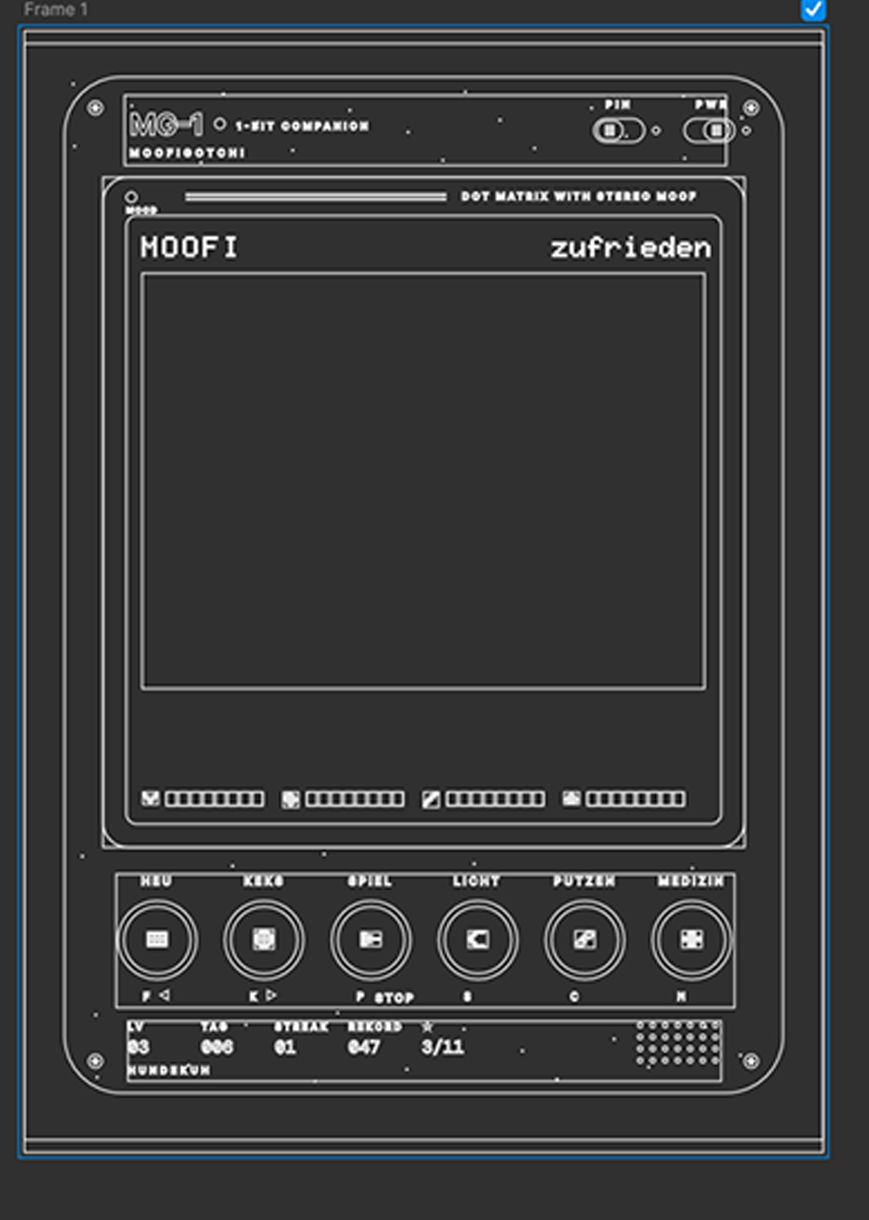
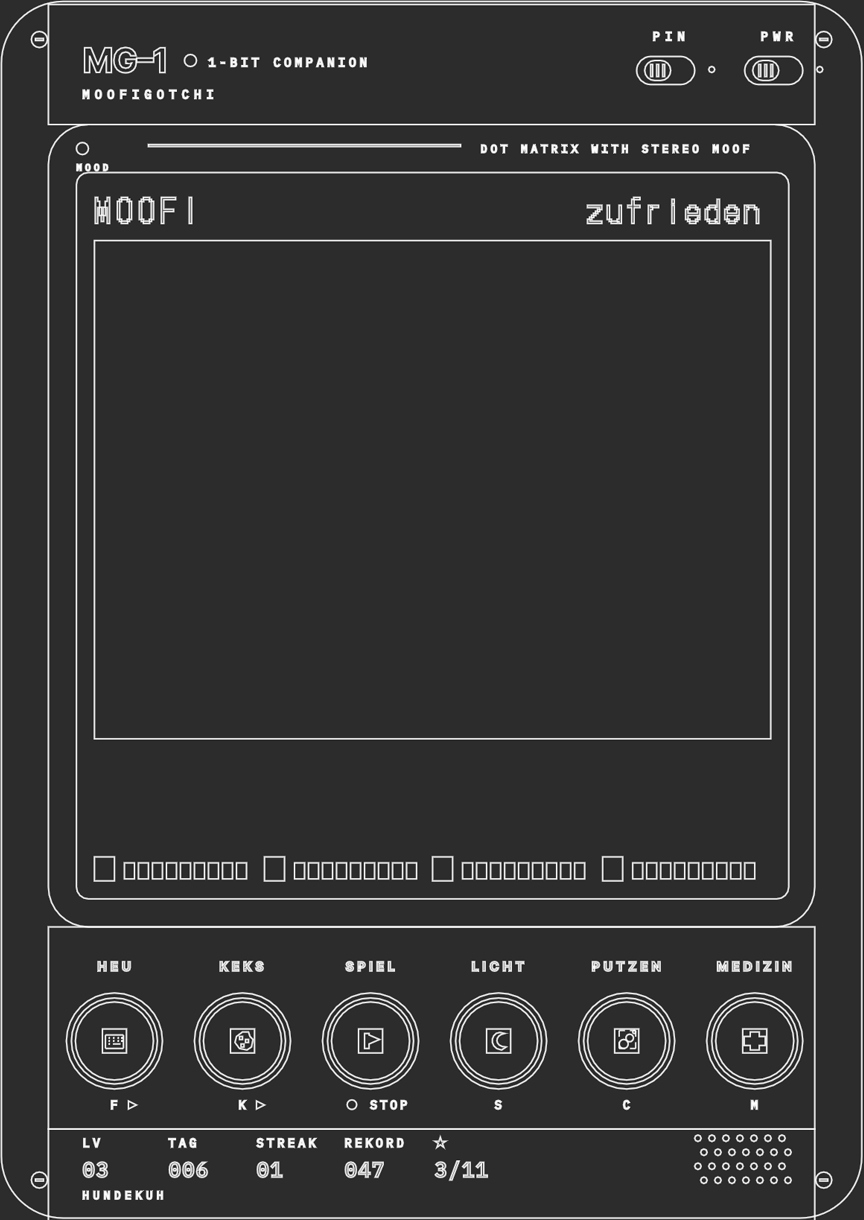
Moofigotchi: new full-width hero, updated Figma reproduction, drop Figma file image

Changed region(s): [[0.0, 0.0, 0.9688, 1.0]]

diff --git a/src/case-studies/moofigotchi.md b/src/case-studies/moofigotchi.md
@@ -11,8 +11,7 @@ stack: Claude / Figma
 links:
   - { label: "Moofigotchi on GitHub", url: "https://github.com/outoffoffice/moofigotchi" }
 heroImage: moofgotchi/25-background-waves.png
-heroFit: natural                 # show the hero uncropped
-heroImageAlt: The Moofigotchi device, a dark handheld with an olive LCD screen showing Moof the dogcow in pixel art in front of a wavy background
+heroImageAlt: The Moofigotchi device, a dark handheld with an olive LCD screen showing Moof the dogcow in pixel art in front of a wavy landscape, on a grey background
 ---
 
 In this short case study I wanted to go through a creative process, focusing on how and when I use generative AI as a tool, and to sum up a kind of flow that makes it a conscious use of the tool. Here are my key takeaways. To make comparison easier, I will refer to the process without AI as the "non-AI process". One thing stays the same either way: before you start, you should already have an idea of what you want, however detailed or low-resolution it is.
@@ -56,8 +55,6 @@ Now it was time to move towards the intended app format. In my case I rolled the
 Now I took the result into Figma and started building it myself, manually drawing some assets I already had in mind, but augmenting them by generating alternate versions.
 
 {% imageTrio "moofgotchi/figma-work-1.png", "moofgotchi/figma-work-2.png", "moofgotchi/figma-work-3.png" %}
-
-{% imageWide "moofgotchi/Figma.png", "The Figma file: LCD screen, backgrounds, clouds, trees and the printer-doghouse" %}
 
 I felt this step was a crucial one: to rework every detail of the design. *This way it started to feel more genuinely like a craft instead of just accepting a generated result.* Using both manual work and amplifying it with an agent helped me focus on the creative part, both conceptually and in fine visual detail work.
 
